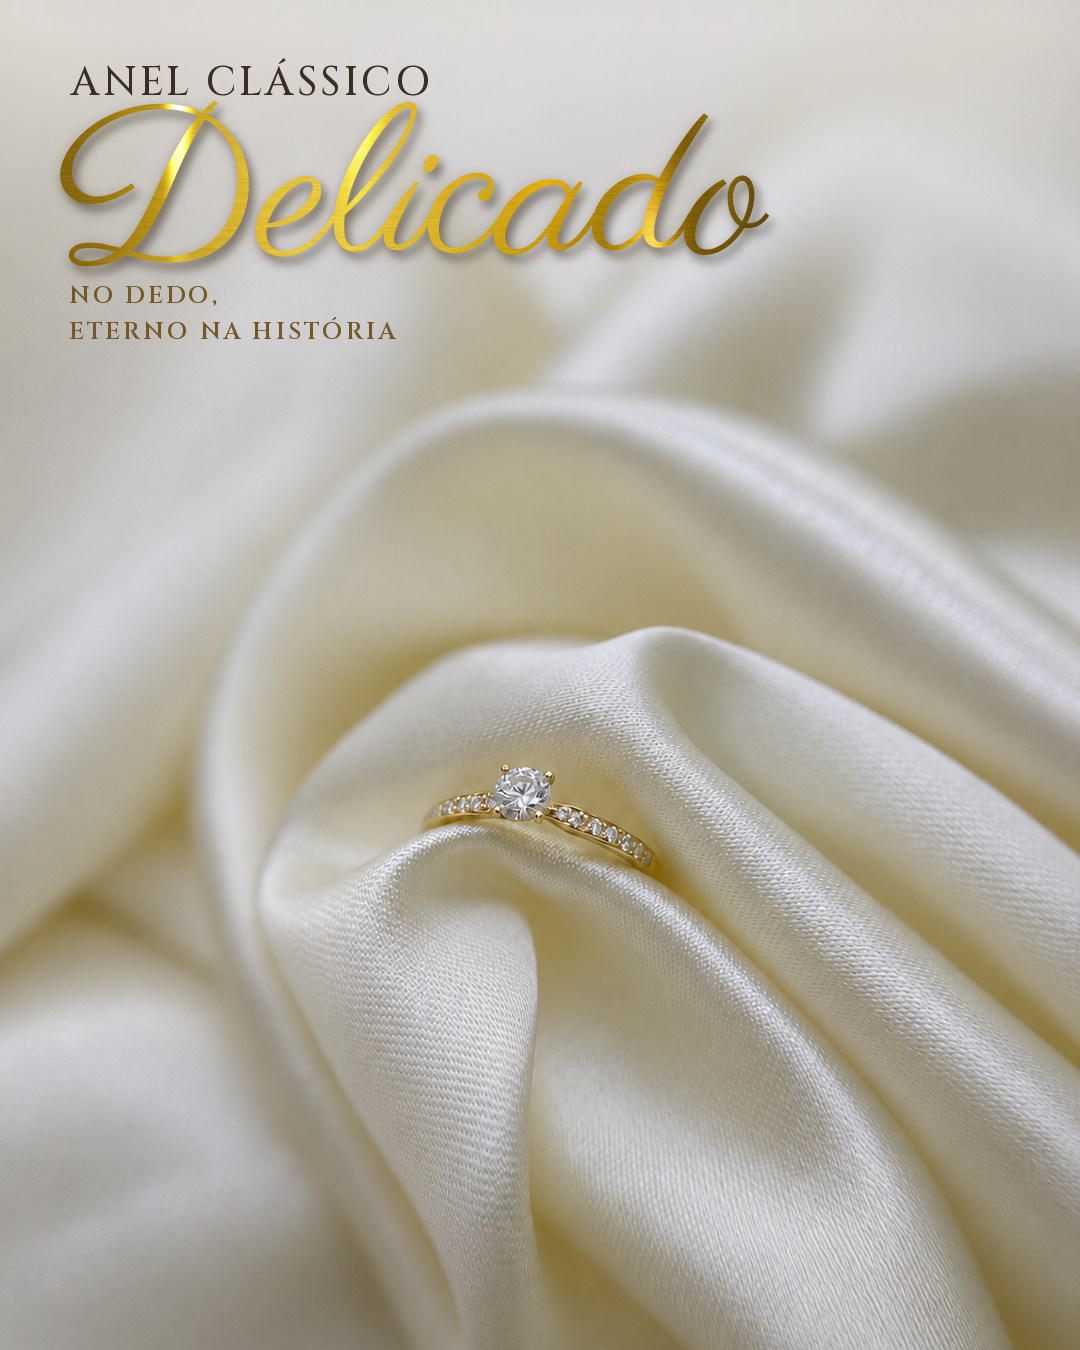
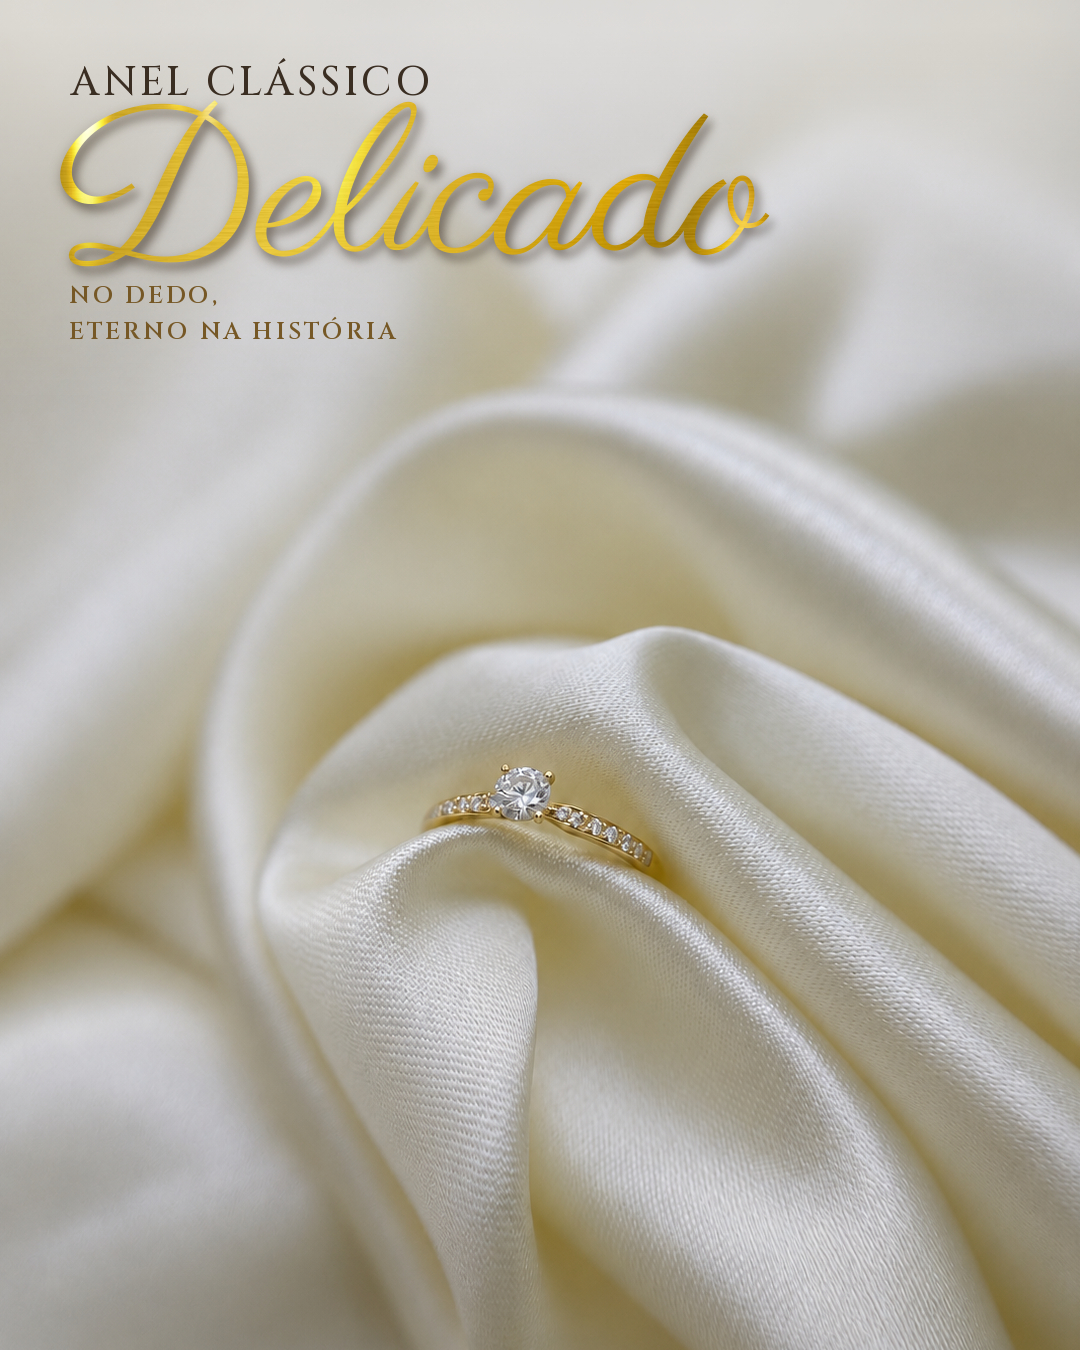
Anel clássico: post da menina sem moldura com degradê claro embaixo; dourado usa a parte central da textura (pontas sem escurecer)
Claude-Session: https://claude.ai/code/session_01RLP9fKwVsDi588D8MrznBA

diff --git a/anel-classico/anel_classico.py b/anel-classico/anel_classico.py
@@ -52,17 +52,18 @@ def photo_slide(name, caps, script, phrase, size=210):
 
 
 def editorial():
-    """'Something different': magazine layout, photo inset in an ivory passe-partout, title below."""
-    im = Image.new('RGBA', (W, H), IV + (255,))
+    """Full-bleed photo (crop only) with the approved light ivory fade rising from the base, dark text on it."""
+    import numpy as np
     src = Image.open(D + 'menina-brinco.png').convert('RGB')
-    pw, ph = 960, 1010
-    s = src.crop((70, 20, 70 + pw, 20 + ph))                   # native pixels: crop only, no resize
-    x0, y0 = (W - pw) // 2, 60
-    fr = Image.new('L', (W, H), 0); ImageDraw.Draw(fr).rectangle([x0 - 10, y0 - 10, x0 + pw + 9, y0 + ph + 9], outline=255, width=2); im.alpha_composite(gold_fill(fr))
-    im.paste(s, (x0, y0))
-    y = C(im, solid_text('TENDÊNCIAS PASSAM.', caps_font(30, 700), BR, 10), y0 + ph + 34)
-    y = C(im, shadowed(gold_text('Joias ficam.', script_font(124))), y + 4)
-    C(im, solid_text('USE JOIAS QUE DUREM · GARANTIA VITALÍCIA', caps_font(22, 600), SOFT, 3), y + 10)
+    im = src.crop((2, 0, 2 + W, H))                            # native pixels, crop only
+    a = np.asarray(im, np.float32)
+    yy = np.arange(H, dtype=np.float32)[:, None, None] / H
+    x = np.clip((yy - 0.64) / (0.83 - 0.64), 0, 1); f = x * x * (3 - 2 * x) * 0.95
+    a = a * (1 - f) + np.array([250, 247, 241], np.float32) * f
+    im = Image.fromarray(a.astype('uint8')).convert('RGBA')
+    y = C(im, solid_text('TENDÊNCIAS PASSAM.', caps_font(32, 700), BR, 10), 1105)
+    y = C(im, shadowed(gold_text('Joias ficam.', script_font(150))), y + 4)
+    C(im, solid_text('USE JOIAS QUE DUREM · GARANTIA VITALÍCIA', caps_font(22, 600), BR, 3), y + 14)
     return im
 
 

diff --git a/shimmer_style.py b/shimmer_style.py
@@ -17,6 +17,10 @@ S = os.path.join(_HERE, 'assets') + '/'                    # fonts live in asset
 GOLD_TEXTURES = {'escovado': 'ouro-3-escovado.jpg', 'folha': 'ouro-2-folha.jpg', 'liquido': 'ouro-1-liquido.jpg'}
 GOLD_TEX_PATH = os.path.join(_HERE, 'assets', 'texturas', GOLD_TEXTURES[os.environ.get('SHIMMER_OURO', 'escovado')])
 GOLD_TEX = Image.open(GOLD_TEX_PATH).convert('RGB') if os.path.exists(GOLD_TEX_PATH) else None
+if GOLD_TEX is not None:
+    # use the bright central part of the texture: its outer edges are dark and made the letter tips look black
+    _w, _h = GOLD_TEX.size
+    GOLD_TEX = GOLD_TEX.crop((int(_w * 0.14), 0, int(_w * 0.86), _h))
 WHITE = (255, 253, 248)
 CHAMPAGNE = np.array([212, 178, 108], np.float32)
 
